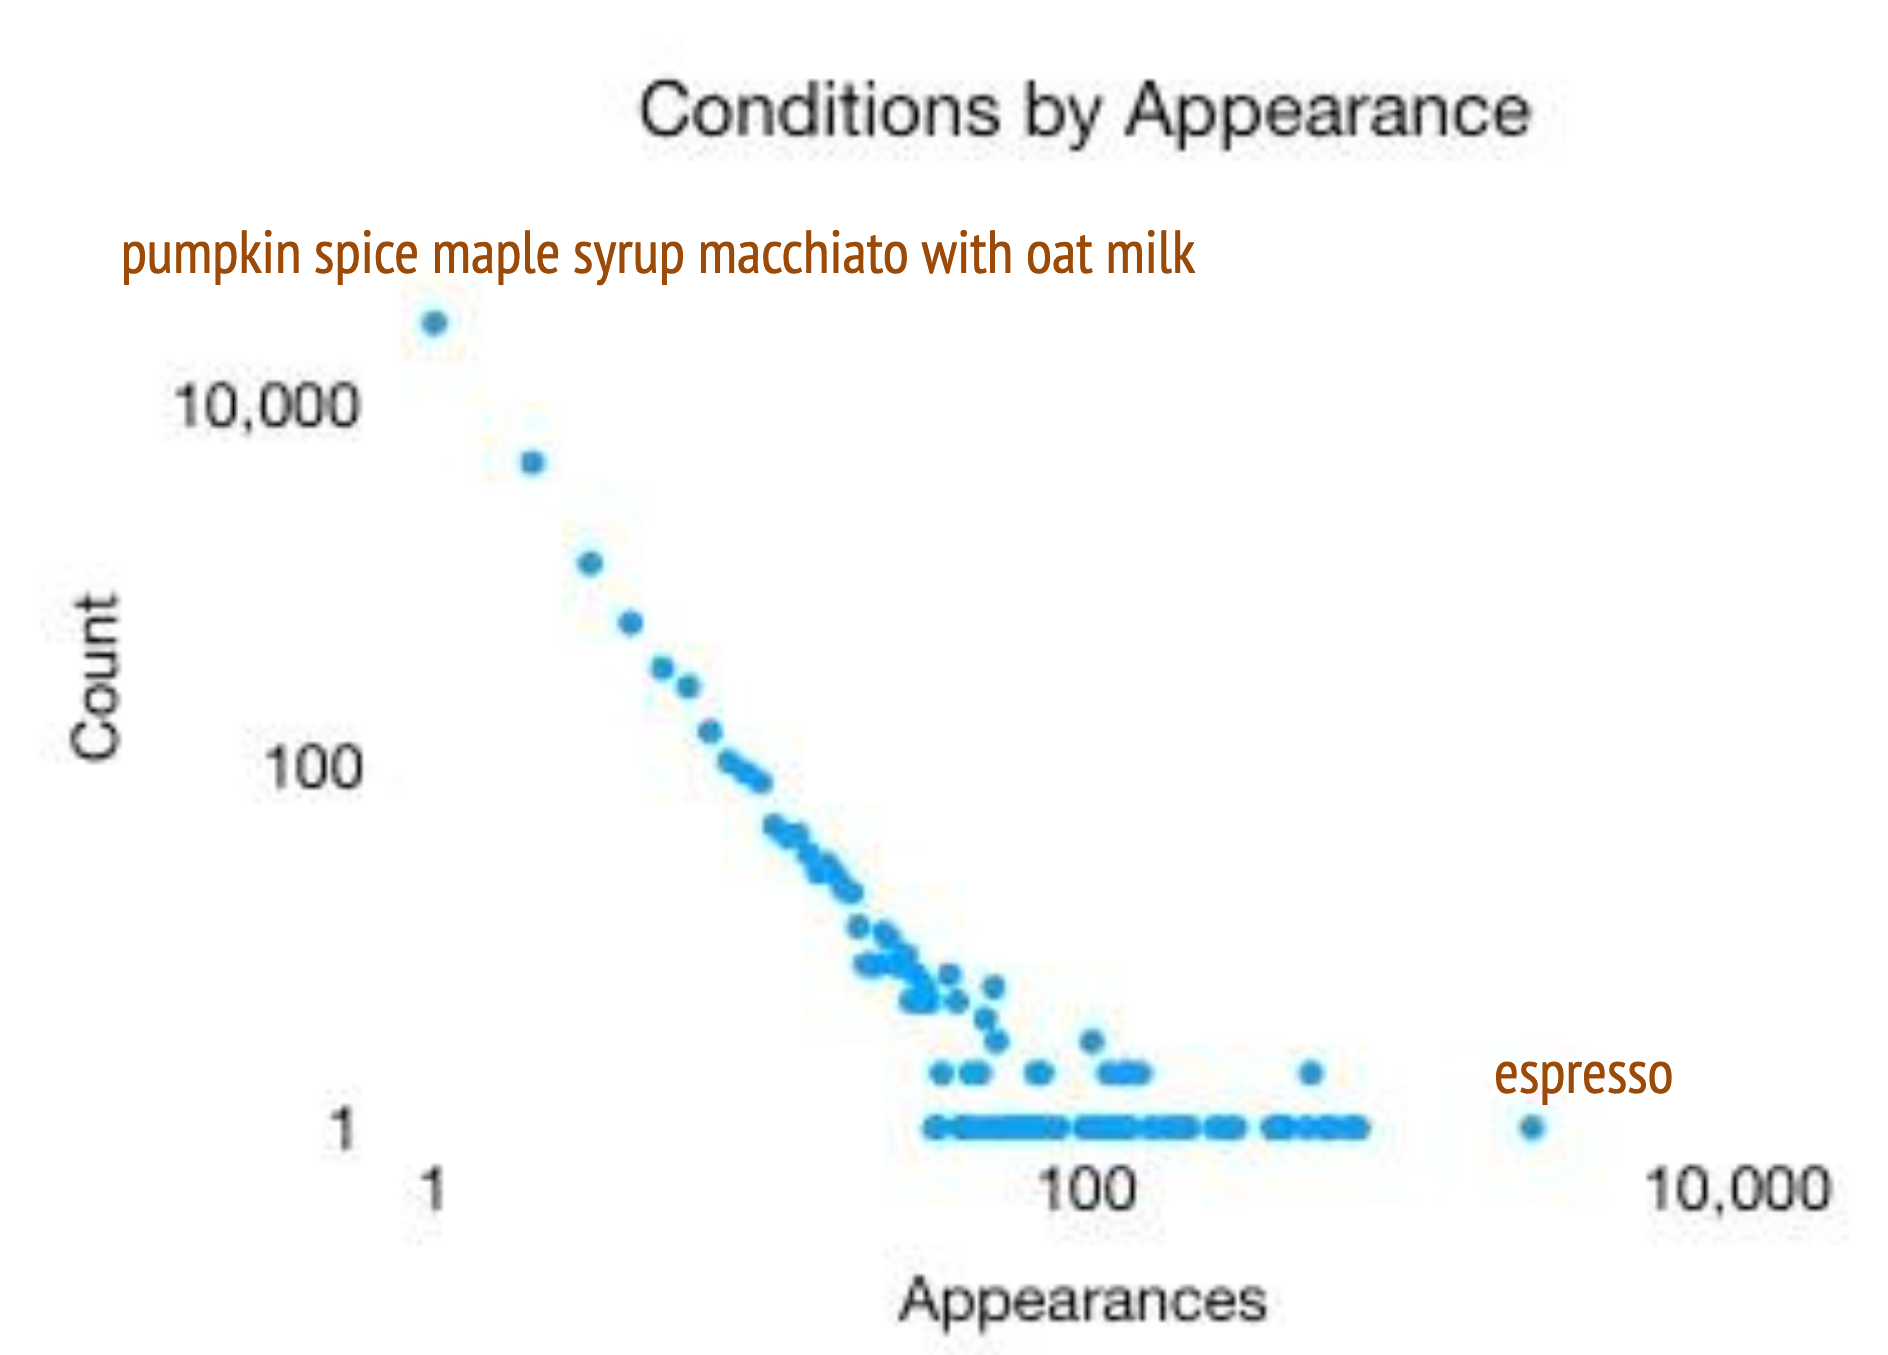
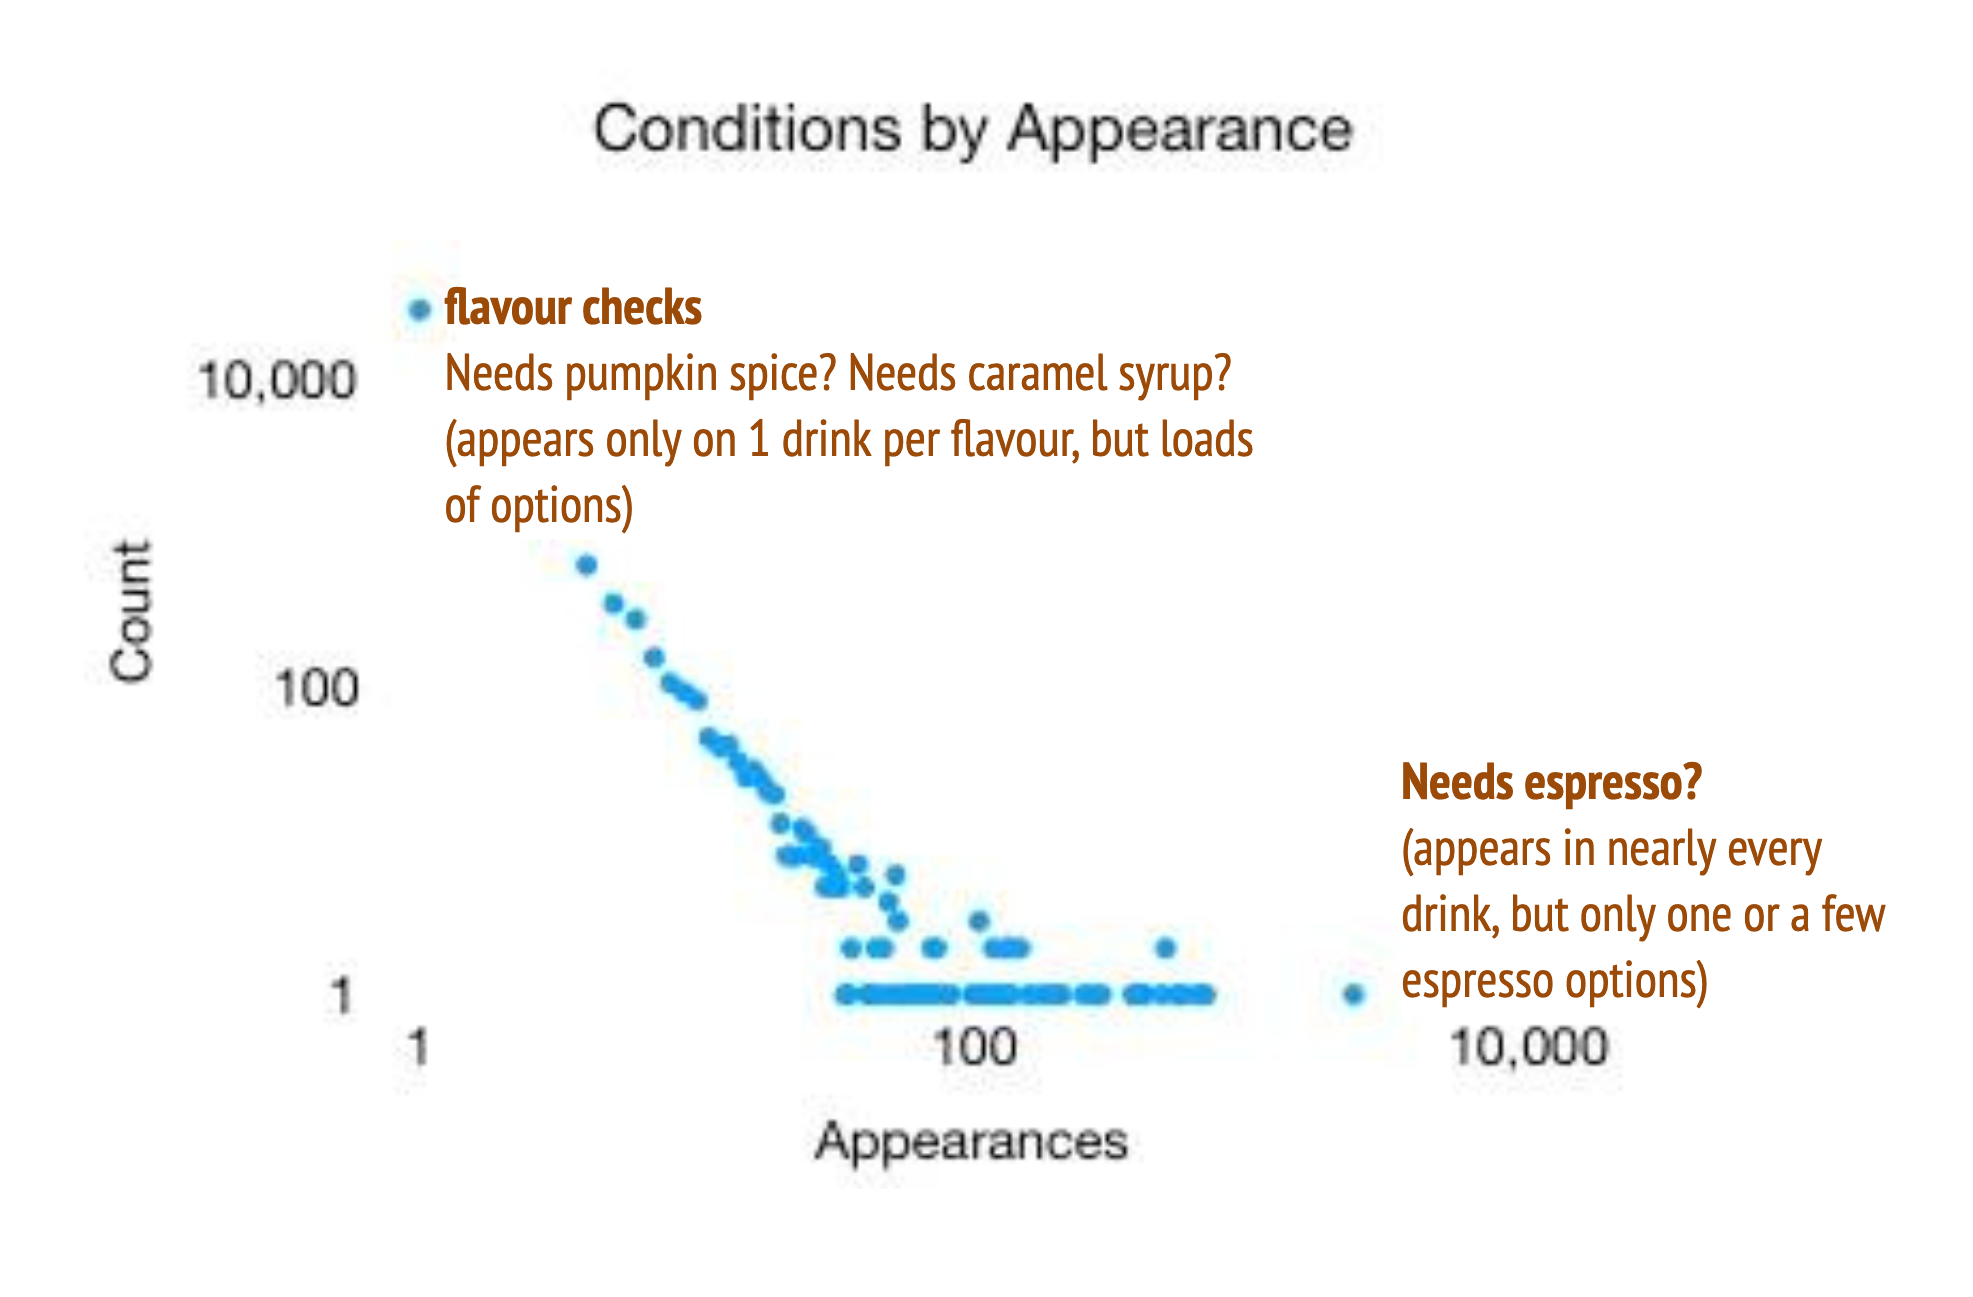
Workshop/goto 2026 tidy first (#4)
* readibility: F v F

* update coffee analogy

diff --git a/Content/Blog/2026-goto-tidy-first.md b/Content/Blog/2026-goto-tidy-first.md
@@ -8,102 +8,131 @@ authors:
       gitHubUserName: "hoilamc"
 ---
 
-You're under money pressure, and you still have to keep the future open. That's the theme I took away from Kent Beck's "Tidy First" workshop at GOTO 2026: design is an economic decision about *timing*, not about cleanliness.
+## The money tension
 
-The notes below follow five questions:
+We're always under money pressure: features pay the bills, and sponsors keep investing only if we keep delivering. But the invisible work (tidying, restructuring, keeping the code easy to change) is what keeps us able to experiment and deliver *next* quarter too.
 
-1. [The tension: deliver now, or invest for later?](#1-the-tension-deliver-now-or-invest-for-later)
-2. [Where does the cost actually hide?](#2-where-does-the-cost-actually-hide)
-3. [How do we invest cheaply, in tiny steps?](#3-how-do-we-invest-cheaply-in-tiny-steps)
-4. [How do we know what's worth doing?](#4-how-do-we-know-whats-worth-doing)
-5. [What does AI change?](#5-what-does-ai-change)
+So the question I took away from Kent Beck's "Tidy First" workshop at GOTO 2026 is: **when do we deliver, and when do we do the invisible work?** Being a professional in this area means having the habits and experience to balance both. We should take pride in that.
 
-🤖 marks the places where I tried to connect things to AI. They're collected in section 5.
+The notes below build up to an answer in three steps:
 
-## 1. The tension: deliver now, or invest for later?
+1. [What are we balancing?](#what-are-we-balancing): the concepts of features, futures and survival
+2. [Where does the cost hide?](#where-does-the-cost-hide): coupling and cohesion
+3. [So how do we strike the balance?](#so-how-do-we-strike-the-balance): putting the concepts to work
+4. [What does AI change?](#what-does-ai-change)
 
-*Scope: why we can't just "do the right thing" first, and why we can't just ship features forever either.*
+🤖 marks the places where I tried to connect things to AI. They're collected in the last section.
+
+## What are we balancing?
+
+As geeks, it's easy for us to over-engineer, and that burns through the patience our stakeholders have before they stop investing. But if we ignore good software practices and architectural design, our code will eventually get so smelly that we can no longer add new features.
+
+This is where Kent introduces the concept of "F v F" (Features vs. Futures).
 
 ### Features vs. futures
 
-How to match software design with an economic sense? How many things can one economically do next?
+In the chart below, the x-axis is the features we've delivered, and the y-axis is the futures (options) we still have.
 
 ![Hand-drawn graph with Features on the x-axis and Futures on the y-axis. A blue curve falls steadily as features are delivered; a black zigzag stays high by alternating feature work with work that restores futures.](media/futures-vs-features.jpg)
 
 Source: <https://newsletter.kentbeck.com/p/mathematicians-heres-a-way-to-think>
 
-Visible vs invisible, how we need invisible work in small chunks. We also need to let people keep investing into our team after all.
+The blue line shows what happens when we focus solely on delivering features: every feature moves us right, but eats into our future options, until there's nothing left.
 
-### Survival: balancing strategically
+The black line is a more sustainable approach. We balance feature delivery with small spikes of "Future" tasks, such as tidying code and improving the architecture, which forms a sawtooth shape. These tasks are often invisible: they move us up, not right. But those small spikes keep the future of our product open.
 
-> I honestly don’t remember well — was probably sleepy after lunch :(
+Of course, the opposite is also a trap. If we spend all our time doing things right, we keep moving up but never right, and people will stop investing in our team.
 
-The software should survive, meaning we encourage sponsors to invest more “money” into the project. And we do that by delivering features. It increases our Net Present Value (NPV). The other half of survival is *optionality*: keeping our future choices open.
+So we always have to ask ourselves:
+
+> *How do we match software design with an economic sense? How many things can one economically do next?*
+
+### Survival
+
+The feature we deliver increases our Net Present Value (NPV).
+The future we strive for provides *optionality*: keeping our future choices open.
 
 ![Survival splits into two branches: Net Present Value (Feature) and Optionality (Future).](media/survival-npv-optionality.png)
 
-So less design, more features at the start.
+## Where does the cost hide?
 
-But be careful not to over-investing into a project too early on!
-
-**If we want to earn more, we have to pay less.**
-(e.g.: Delivering more features without minding too much on reusability, duplication, etc. That’s when small habits count! But don’t be afraid to fail and make mistakes.)
-
-**We can earn earlier, then pay later.**
-(e.g.: After getting investment from our sponsors and proving that our features have value, we then have the optionality and can clean up the code)
-
-Like we could use a ContextProvider right from the start (see the cohesion example in section 2), then we avoid maintaining messy code later as our codebase grow, meaning we have more optionality, more freedom to do other things. But there could also a risk that it’s expensive to maintain without much usage.
-
-## 2. Where does the cost actually hide?
-
-*Scope: what makes a change expensive, and the two lenses for spotting it: coupling and cohesion.*
+So what makes it hard to grow our futures? We need to understand what costs us the most effort and time: the things that are *expensive* to change. Kent gives us two lenses for spotting them, coupling and cohesion.
 
 ### Coupling
 
-= Propagation of Change
-I.e. Dependency when a change occurs.
+Coupling is the *propagation of change*, i.e. the dependencies that show up when a change occurs.
 
 “When I change this, what other things need to be changed too?”
 
-⚠ The “Change” event is required to trigger the propagation.
-
-💰 Because it only cost you when you make the change.
-
-Larger size of change === larger cost of change === coupling seriousness.
+In the diagram below, changing the orange node forces changes in the yellow ones. The black nodes aren't affected by this particular change, so they cost us nothing here.
 
 ![Tree of nodes joined by arrows, labelled "Arrows: Coupling". Changing the orange node propagates along yellow arrows to the three nodes that depend on it; the black nodes are unaffected.](media/coupling-arrows.png)
 
-In Math formula, it will be COUPLE(E1, E2, Delta)
+A couple of things to note:
 
-💡 Is our test too coupled right now? Or can we investigate with Graphify?
+- ⚠ Coupling needs a **change** to trigger the propagation. Two pieces of code can be tangled together, but if we never touch them, nothing propagates.
+- 💰 That's why it only costs us when we make the change. Larger size of change === larger cost of change === coupling seriousness.
 
-### Conditions are power-law distributed
+In math formula, it will be COUPLE(E1, E2, Δ): E1 and E2 are coupled with respect to a change Δ if changing E1 by Δ forces us to change E2.
 
-This concept exists in code: 貧者越貧，富者越富。A condition on the far right are like the top of a tree — many conditions go through there first. Whilst those on the top are like special cases. One needs to pass through many conditions in order to reach there. BUT that doesn’t mean they’re not important!
+<!-- TODO: verify the COUPLE definition against Kent's wording -->
+
+> **💡 Opportunity for a workshop:** Is our test too coupled right now? Can we investigate with [Graphify](https://github.com/Graphify-Labs/graphify)?
+
+#### Find your espresso: where to spend effort first
+
+This is my personal summary after digesting what Kent shared on this topic: "espresso" is the kind of element that decides the quality of the drink built on top of it. Just like how we have some conditions in our code that need extra attention to ensure the overall quality and maintainability.
+
+Think of a café menu as code. Each drink's recipe is full of little `if`s: *if it has coffee, pull an espresso shot*, *if it's pumpkin spice, add the syrup*. The drinks are the places in our code, and each of these yes/no questions is a condition. Whatever you order, the barista almost always asks "does it need espresso?" first, so espresso sits at the top of the tree and most drinks depend on it:
+
+![Dependency tree with espresso at the top, pointing to americano, cortado, latte and cappuccino. Latte in turn points to dirty chai and pumpkin spice latte.](media/espresso-dependency-tree.png)
+
+This is coupling again. If we change the espresso (say, new beans), every drink that uses it changes too. That's the propagation of change, so the espresso is where a change (or a mistake) costs us the most. The "is it pumpkin spice?" check is the opposite: only one drink has it, so changing it affects just that drink.
+
+So coupling isn't spread evenly across a codebase, and we don't need to treat every line equally. A few elements carry most of the weight.
+
+#### The power law behind it
+
+In code, Kent observed that conditions (`if ...`) are power-law distributed: one condition is used more than any other (like the espresso), a couple are used about half as much, and so on, until there's a long tail of conditions used only once.
+
+On the chart below:
+
+- **x-axis (Appearances):** how many times a condition shows up in the code.
+- **y-axis (Count):** how many *different* conditions show up that many times.
+
+So each dot is a group of conditions with the same number of appearances. Top left is a huge crowd of special cases used once; far right is a single condition used over and over.
 
 ![Log-log scatter plot titled "Conditions by Appearance": a few conditions appear many times, while the vast majority appear only once, following a power-law distribution.](media/conditions-by-appearance.jpg)
 
 Source: <https://medium.com/@kentbeck_7670/conditions-are-power-law-distributed-an-example-61fa4e0d3500>
 
-Or, with the coffee analogy from the workshop:
+Now map the menu back to the chart. Each check is a condition, and each drink that has it is one appearance:
 
-![The same "Conditions by Appearance" plot annotated with coffee orders: "pumpkin spice maple syrup macchiato with oat milk" is a one-off at the top left, while "espresso" is the single most frequent condition at the far right.](media/conditions-by-appearance-espresso.png)
+- **"Needs espresso?":** there's only one espresso check (or a few, in a specialty café), so y (count) is 1. But it appears in drink after drink, so x (appearances) is huge. It's the lone dot on the far right.
+- **Flavour checks ("needs pumpkin spice?", "needs caramel syrup?"...):** each appears in just one drink, so x is 1. A menu is full of checks like these, so lots of different conditions land on x = 1, and that's why the dot is way up at the top left.
 
-Key takeaways:
+![The same "Conditions by Appearance" plot annotated with café checks: "flavour checks" such as "needs pumpkin spice?" or "needs caramel syrup?" sit at the top left, each appearing in only one drink but with loads of them, while "needs espresso?" is the lone dot at the far right, appearing in nearly every drink.](media/conditions-by-appearance-espresso.png)
 
-- Consolidation candidates / reduce duplication (Where’s our “espresso”? Air pressure, how many grams…)
-- Test prioritization: “Which logic, if broken, breaks the most places” it’s like if the espresso is not good, then the latte won’t be good too :( (opinionated)
-- 🤖 What’s the espresso for AI? What’s a micro-structure that AI adopt when writing code? E.g.: comments and tests it generates — are they duplicates?
+#### What we can do with this
+
+- **Test the espresso harder.** Ask: "Which logic, if broken, breaks the most places?" If the espresso is not good, the latte won't be good either :( The conditions at the bottom right of the chart are the candidates for the heaviest testing. (opinionated)
+- **Consolidate the espresso.** The popular conditions are where duplication hurts most, so they're the best candidates to pull into one place. Where's our "espresso"? Once you find the right air pressure and weight for a type of bean, you'll stick with that configuration consistently.
+- **Don't ignore the one-offs.** They're cheap to change, but that doesn't mean they're not important. When it's in season, the pumpkin spice latte is a highlight of the menu and deserves attention too.
+- 🤖 **Teach AI on how to spot them.** What's a micro-structure that helps AI recognize repeated patterns when writing tests and generating comments?
 
 ### Cohesiveness
 
-So the previous one (coupling) is about consolidating separate functions into one. This one is about putting things of the same / similar context into the same place — the same plugin, folder, or even file.
+Coupling tells us *what changes together*. Cohesiveness is what we do about it: put things of the same / similar context into the same place — the same plugin, folder, or even file.
 
 Why? Because when we need to change, there’s less risk that we forget to change other related things.
 
-ContextProvider lol
+Here's an example with a ContextProvider:
 
 ![Two dependency trees for updating a field value. Left: changing the field in the side panel propagates through the side panel and overview tab down to Card A's updated value. Right: both the change and the update go through a shared ContextProvider instead.](media/cohesion-context-provider.png)
+
+On the left, when we change a field value in the side panel, the change has to travel up through the overview tab and back down to Card A to update the value it shows. Every hop in between is a place where we could forget something. On the right, both the change and the update go through a shared ContextProvider, so the related logic lives in one place.
+
+<!-- TODO: add a real example from my own work? -->
 
 ### Beneficial Relationships (BRE)
 
@@ -115,9 +144,35 @@ BRE = Beneficial Related Elements, from his *Tidy First* book.
 
 <!-- TODO: expand — my take: patterns as packaged ways to manage coupling and cohesion? -->
 
-## 3. How do we invest cheaply, in tiny steps?
+## So how do we strike the balance?
 
-*Scope: the habits and techniques that make "pay later" and "pay a little now" affordable and safe.*
+*Scope: using the concepts above to decide what to do, when, and how small.*
+
+### Earn first, pay later
+
+Survival needs both NPV and optionality, so:
+
+**If we want to earn more, we have to pay less.**
+(e.g.: Delivering more features without minding too much on reusability, duplication, etc. That’s when small habits count! But don’t be afraid to fail and make mistakes.)
+
+**We can earn earlier, then pay later.**
+(e.g.: After getting investment from our sponsors and proving that our features have value, we then have the optionality and can clean up the code)
+
+So less design, more features at the start. But be careful not to over-invest into a project too early on!
+
+Like we could use a ContextProvider right from the start (the cohesion example above), then we avoid maintaining messy code later as our codebase grow, meaning we have more optionality, more freedom to do other things. But there could also a risk that it’s expensive to maintain without much usage.
+
+### The art of waiting
+
+It’s not realistic to make things right the first time. Things are always changing anyways. Just get frequent feedback, a strong feedback loop. Small incrementals, fail fast, learn fast.
+
+💡 How do we judge if we really need to do something (e.g.: a feature, a refactor)?
+A: Experience lol
+
+1. Play and experiment with the idea
+2. Identify pattern, or have a feeling that there’s just gonna be more, then pull out a little trick from down the sleeve (future)
+
+Just make sure it’s reversible if someone is using it already.
 
 ### Little tricks down the sleeves
 
@@ -143,22 +198,6 @@ It's a technique for migration. If we want to migrate from A to B, we create an 
 
 <!-- TODO: verify the Test Desiderata wording against Kent's post before publishing -->
 
-## 4. How do we know what's worth doing?
-
-*Scope: deciding when to act, and when to wait for feedback.*
-
-### The art of waiting
-
-It’s not realistic to make things right the first time. Things are always changing anyways. Just get frequent feedback, a strong feedback loop. Small incrementals, fail fast, learn fast.
-
-💡 How do we judge if we really need to do something (e.g.: a feature, a refactor)?
-A: Experience lol
-
-1. Play and experiment with the idea
-2. Identify pattern, or have a feeling that there’s just gonna be more, then pull out a little trick from down the sleeve (future)
-
-Just make sure it’s reversible if someone is using it already.
-
 ### Grow software, don't assemble it
 
 "Empirical design": respect constraints. So just work on top of our current code. We can go fast if we understand our constraints.
@@ -169,9 +208,9 @@ Just make sure it’s reversible if someone is using it already.
 
 If you're just guessing and asking no users, that's not agile, even though you're doing daily standups!
 
-## 5. What does AI change?
+## What does AI change?
 
-*Scope: how AI sharpens the tension from section 1, and what to do about it.*
+*Scope: how AI sharpens the tension from the start, and what to do about it.*
 
 AI tends to deliver visible Features (<https://newsletter.kentbeck.com/i/216656928/genies-hate-the-invisible>), but without tidy code and expandable architecture, we’re only reducing the amount of future we could deliver — Technical Debt will increase. ⚠
 
@@ -185,9 +224,9 @@ AI tends to deliver visible Features (<https://newsletter.kentbeck.com/i/2166569
 
 <!-- TODO: expand — what does "documenting by intent" look like in our specs / prompts? -->
 
-🤖 **Tell AI what good tests look like.** Put the "test behaviors, not structure" rule from section 3 into our specs and instructions.
+🤖 **Tell AI what good tests look like.** Put the "test behaviors, not structure" rule from the testing section into our specs and instructions.
 
-🤖 **Find the espresso.** What’s the espresso for AI-written code? (See section 2.)
+🤖 **Find the espresso.** What’s the espresso for AI-written code? (See the power-law section.)
 
 ## Books
 
